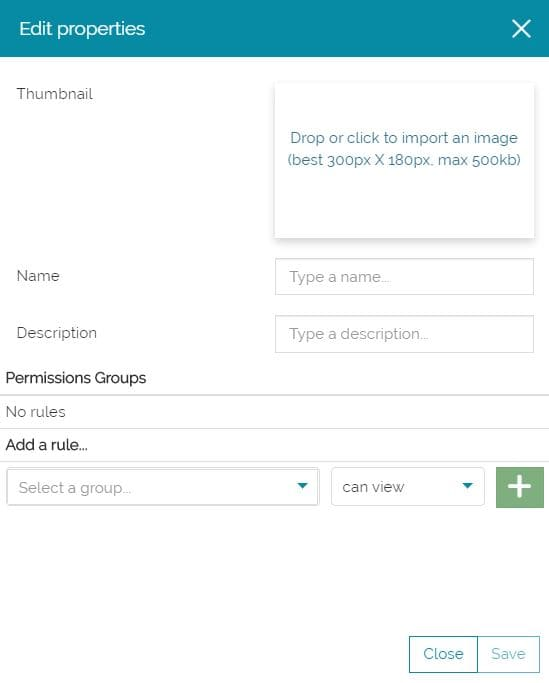
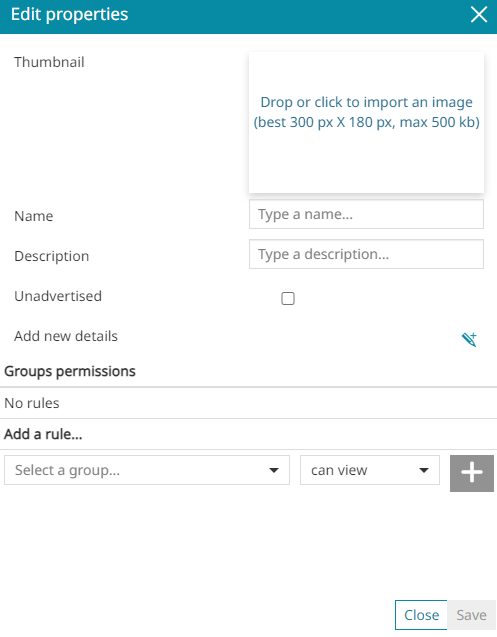
add_9975

diff --git a/docs/user-guide/resources-properties.md b/docs/user-guide/resources-properties.md
@@ -8,23 +8,21 @@ In order to customize the properties of a resource, the Admin or a normal user w
 
 Through the *Edit properties* window the user can perform the following operations:
 
-* Add a *Thumbnail*
-
-* Add a *Name* and a *Description*
-
-* Add a *Permission* rule
-
-!!! warning
-    The name of a resource is the only mandatory field. Note that is not allowed to choose a name that has already been assigned to another resource.
-
-## Thumbnail
-
-It is possible to add an image as thumbnail dropping it or clicking inside the following box:
-
-<img src="../img/resource-properties/thumb.jpg" class="ms-docimage"/>
+* Add an image as a **Thumbnail** dropping it or clicking inside the *Thumbnail* box.
 
 !!! warning
     The image to be added must not be larger than 500 kb and its best dimensions are 300x180 px. The supported formats are `jpg` (or `jpeg`) and `png`.
+
+* Add a **Name** and a **Description**
+
+!!! note
+    The name of a resource is the only mandatory field. Note that is not allowed to choose a name that has already been assigned to another resource.
+
+* Enable the **Unadvertised** option to makes the resource owner or the admin the only one who can see and search the resource on the [Home Page](home-page.md) or in the [Map Catalog](map-catalog.md) tool.
+
+* Add a **Permission** rule
+
+* Add **Details** (only for *Maps* and *Dashboard*)
 
 ## Permission rules
 
@@ -45,11 +43,11 @@ How to manage users and groups is a topic present in the [Managing Users](managi
 
 ## Details
 
-Only for resources of type map, it is possible to add details to the map. This is useful to associate some information to the map or an overview description of its content. In this case the *Edit properties* window is the following:
+Only for resources of type map and dashbaord, it is possible to add details to the resource. This is useful to associate some information to the resource or an overview description of its content. In this case the *Edit properties* window is the following:
 
 <img src="../img/resource-properties/edit-map-properties-panel_details.jpg" class="ms-docimage"  style="max-width:400px;"/>
 
-With a click on the **Add new details** button <img src="../img/button/add_details_button.jpg" class="ms-docbutton"/> it opens a panel where the user can write the details of the map.
+With a click on the **Add new details** button <img src="../img/button/add_details_button.jpg" class="ms-docbutton"/> it opens a panel where the user can write the details of the resource.
 
 <img src="../img/resource-properties/details_panel.jpg" class="ms-docimage"/>
 
@@ -74,7 +72,7 @@ Here, the user is allowed to:
 !!! warning
     The *About this map* button is visible in the [Side Toolbar](mapstore-toolbars.md#side-toolbar) only when the details are present on the map.
 
-* Enable the **Show at startup** <img src="../img/button/show-at-starup-button.jpg" class="ms-docbutton"/> button. If active, as soon as the user opens the map, the details panel is visualized.
+* Enable the **Show at startup** <img src="../img/button/show-at-starup-button.jpg" class="ms-docbutton"/> button. If active, as soon as the user opens the resources, the details panel is visualized.
 
 * **Delete** the details sheet <img src="../img/button/delete_white_button.jpg" class="ms-docbutton"/>
 
